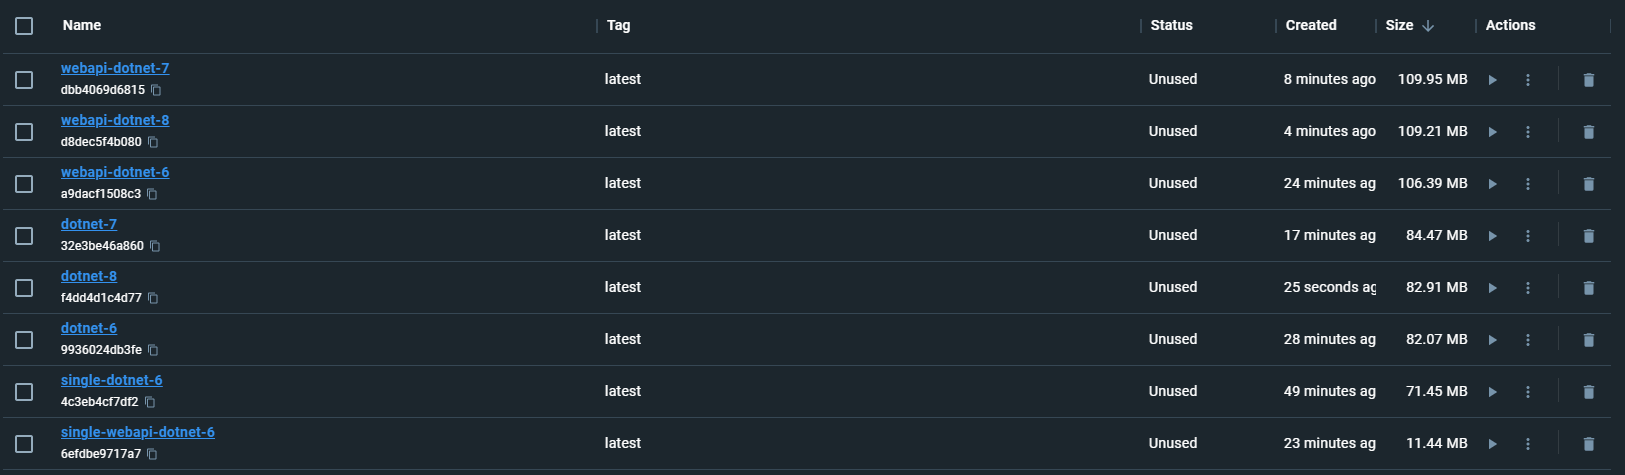
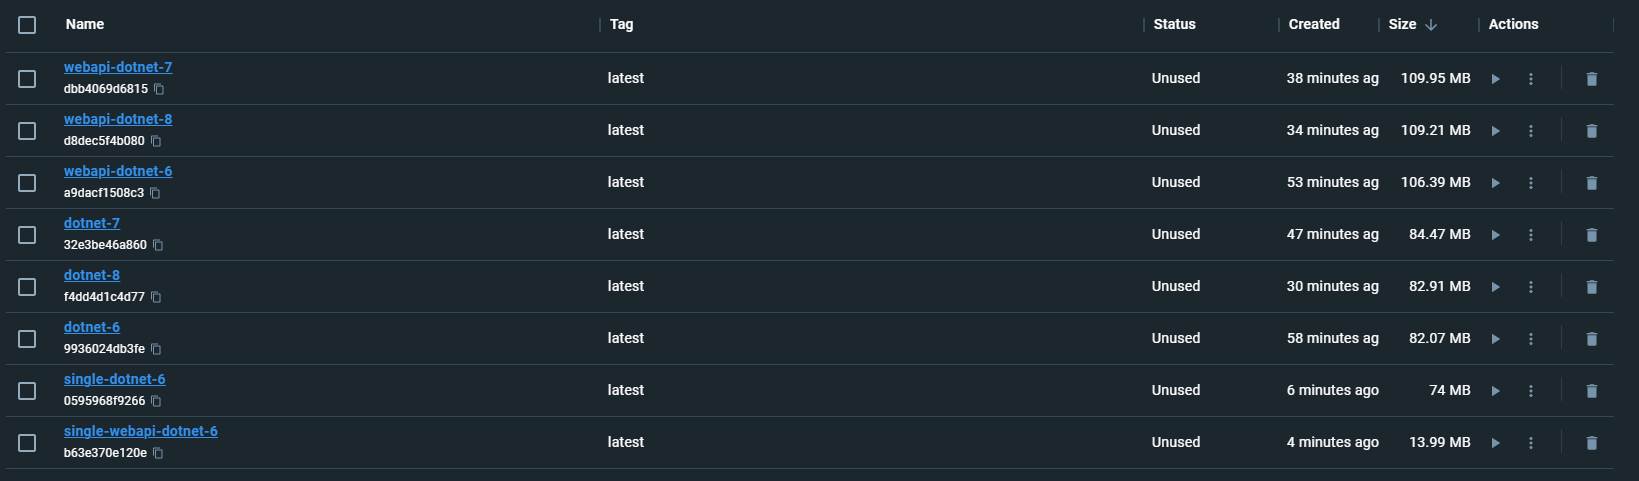
fix: fix error because libgcc

diff --git a/README.md b/README.md
@@ -6,9 +6,9 @@ Docker Image Size Comparison
 
 | Target Framework | Single/Self-Contained | OS | Type | Size |
 |:----------------:|:---------------------:|:--:|:----:|:----:|
-| net6.0 | True | Alpine 3.18 | Console | 71.45 MB (Can't running! Need modification.) |
+| net6.0 | True | Alpine 3.18 | Console | 74 MB |
 | net6.0 | False | Alpine 3.18 | Console | 82.7 MB |
-| net6.0 | True | Alpine 3.18 | Web API | 11.4 MB (Can't running! Need modification.) |
+| net6.0 | True | Alpine 3.18 | Web API | 13.9 MB (.NET Runtime is required) |
 | net6.0 | False | Alpine 3.18 | Web API | 106.39 MB |
 | net7.0 | False | Alpine 3.18 | Console | 84.47 MB |
 | net7.0 | False | Alpine 3.18 | Web API | 109.95 MB |
@@ -33,7 +33,26 @@ Docker Image Size Comparison
 
 ## Known Errors
 
+* Not have `libgcc` & `libstc++`. Solution: Install those libs.
+
 ```bash
 2023-06-30 09:48:31 Error loading shared library libgcc_s.so.1: No such file or directory (needed by ./SingleConsoleNet6)
 2023-06-30 09:48:31 Error loading shared library libstdc++.so.6: No such file or directory (needed by ./SingleConsoleNet6)
+```
+
+* Web API still need .NET Runtime!
+
+```bash
+2023-06-30 10:40:36 You must install .NET to run this application.
+2023-06-30 10:40:36 
+2023-06-30 10:40:36 App: /app/publish/SingleWebApiNet6
+2023-06-30 10:40:36 Architecture: x64
+2023-06-30 10:40:36 App host version: 6.0.19
+2023-06-30 10:40:36 .NET location: Not found
+2023-06-30 10:40:36 
+2023-06-30 10:40:36 Learn about runtime installation:
+2023-06-30 10:40:36 https://aka.ms/dotnet/app-launch-failed
+2023-06-30 10:40:36 
+2023-06-30 10:40:36 Download the .NET runtime:
+2023-06-30 10:40:36 https://aka.ms/dotnet-core-applaunch?missing_runtime=true&arch=x64&rid=alpine.3.18-x64&apphost_version=6.0.19
 ```
